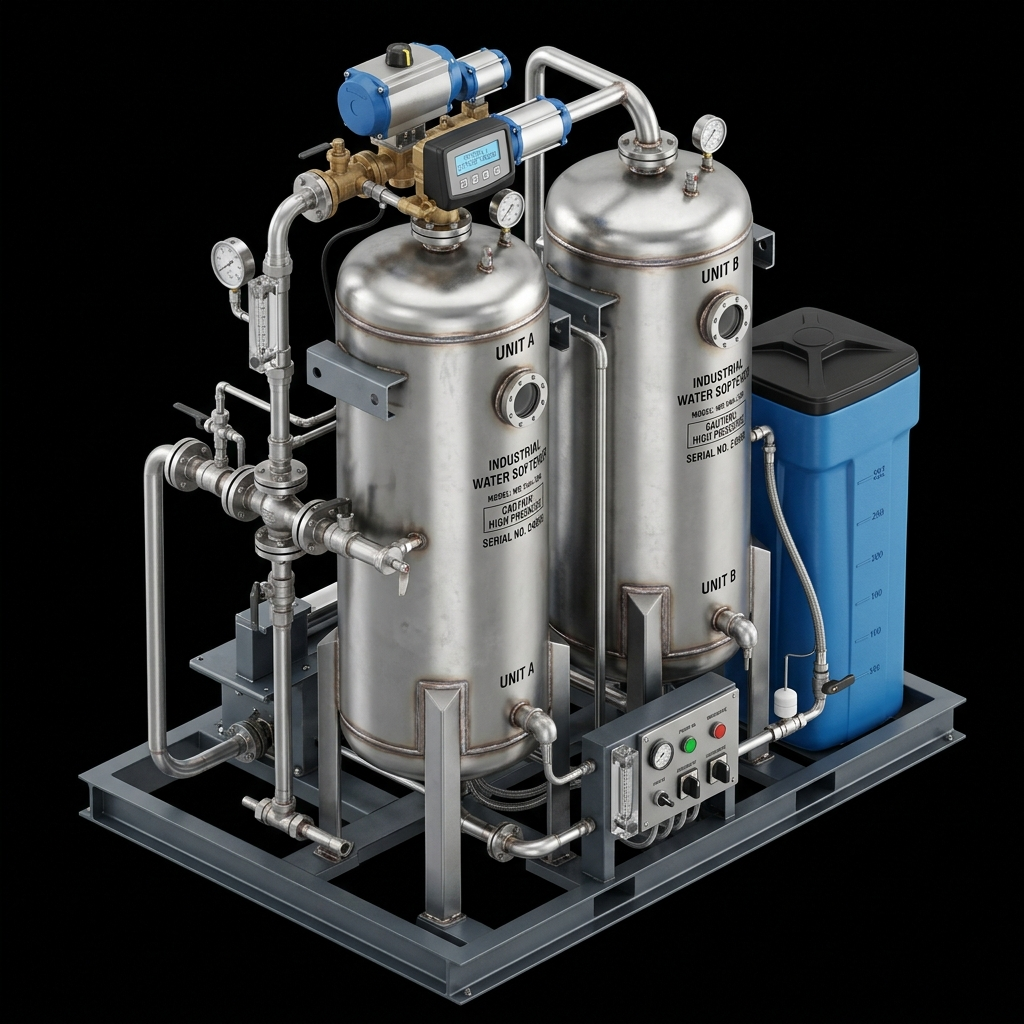
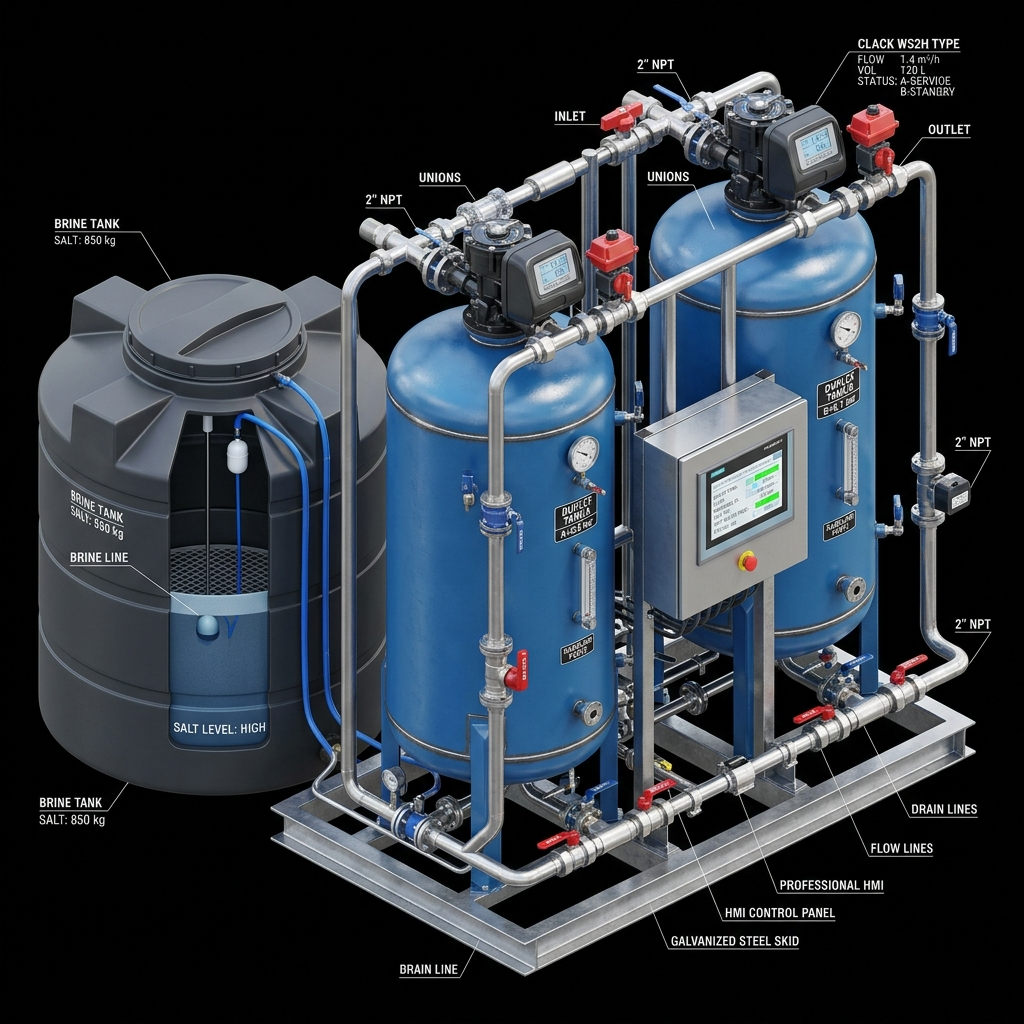
UI: Iconografía industrial corregida (Desgasificador, Colector y Descalcificador con modelos reales)

diff --git a/src/components/Home.jsx b/src/components/Home.jsx
@@ -67,10 +67,10 @@ const Home = ({ setActiveTab, equipos = [], ordenes = [], planMantenimiento = []
     const n = nombre.toUpperCase();
     if (n.includes('QUEMADOR')) return 'burner_3d.png';
     if (n.includes('CALDERA')) return 'boiler_3d.png';
-    if (n.includes('COLECTOR') || n.includes('RACK') || n.includes('DISTRI')) return 'degasser_3d.png';
-    if (n.includes('INTERCAMB') || n.includes('TÉRMICO') || n.includes('TERMICO')) return 'heat_exchanger_3d.png';
-    if (n.includes('DESCALC') || n.includes('SUAVIZADOR')) return 'softener_3d.png';
+    if (n.includes('COLECTOR')) return 'collector_3d.png';
     if (n.includes('DESGAS')) return 'degasser_3d.png';
+    if (n.includes('DESCALC') || n.includes('SUAVIZADOR')) return 'softener_3d.png';
+    if (n.includes('INTERCAMB') || n.includes('TÉRMICO') || n.includes('TERMICO')) return 'heat_exchanger_3d.png';
     if (n.includes('DEPÓSITO') || n.includes('DEPOSITO') || n.includes('TANQUE') || n.includes('BOTELLA') || n.includes('ACUMULADOR')) return 'tanks_3d.png';
     if (n.includes('ARCO') || n.includes('LAVADERO') || n.includes('LIMPIEZA') || n.includes('ZPR45')) return 'chemical_3d.png';
     return 'boiler_3d.png';
